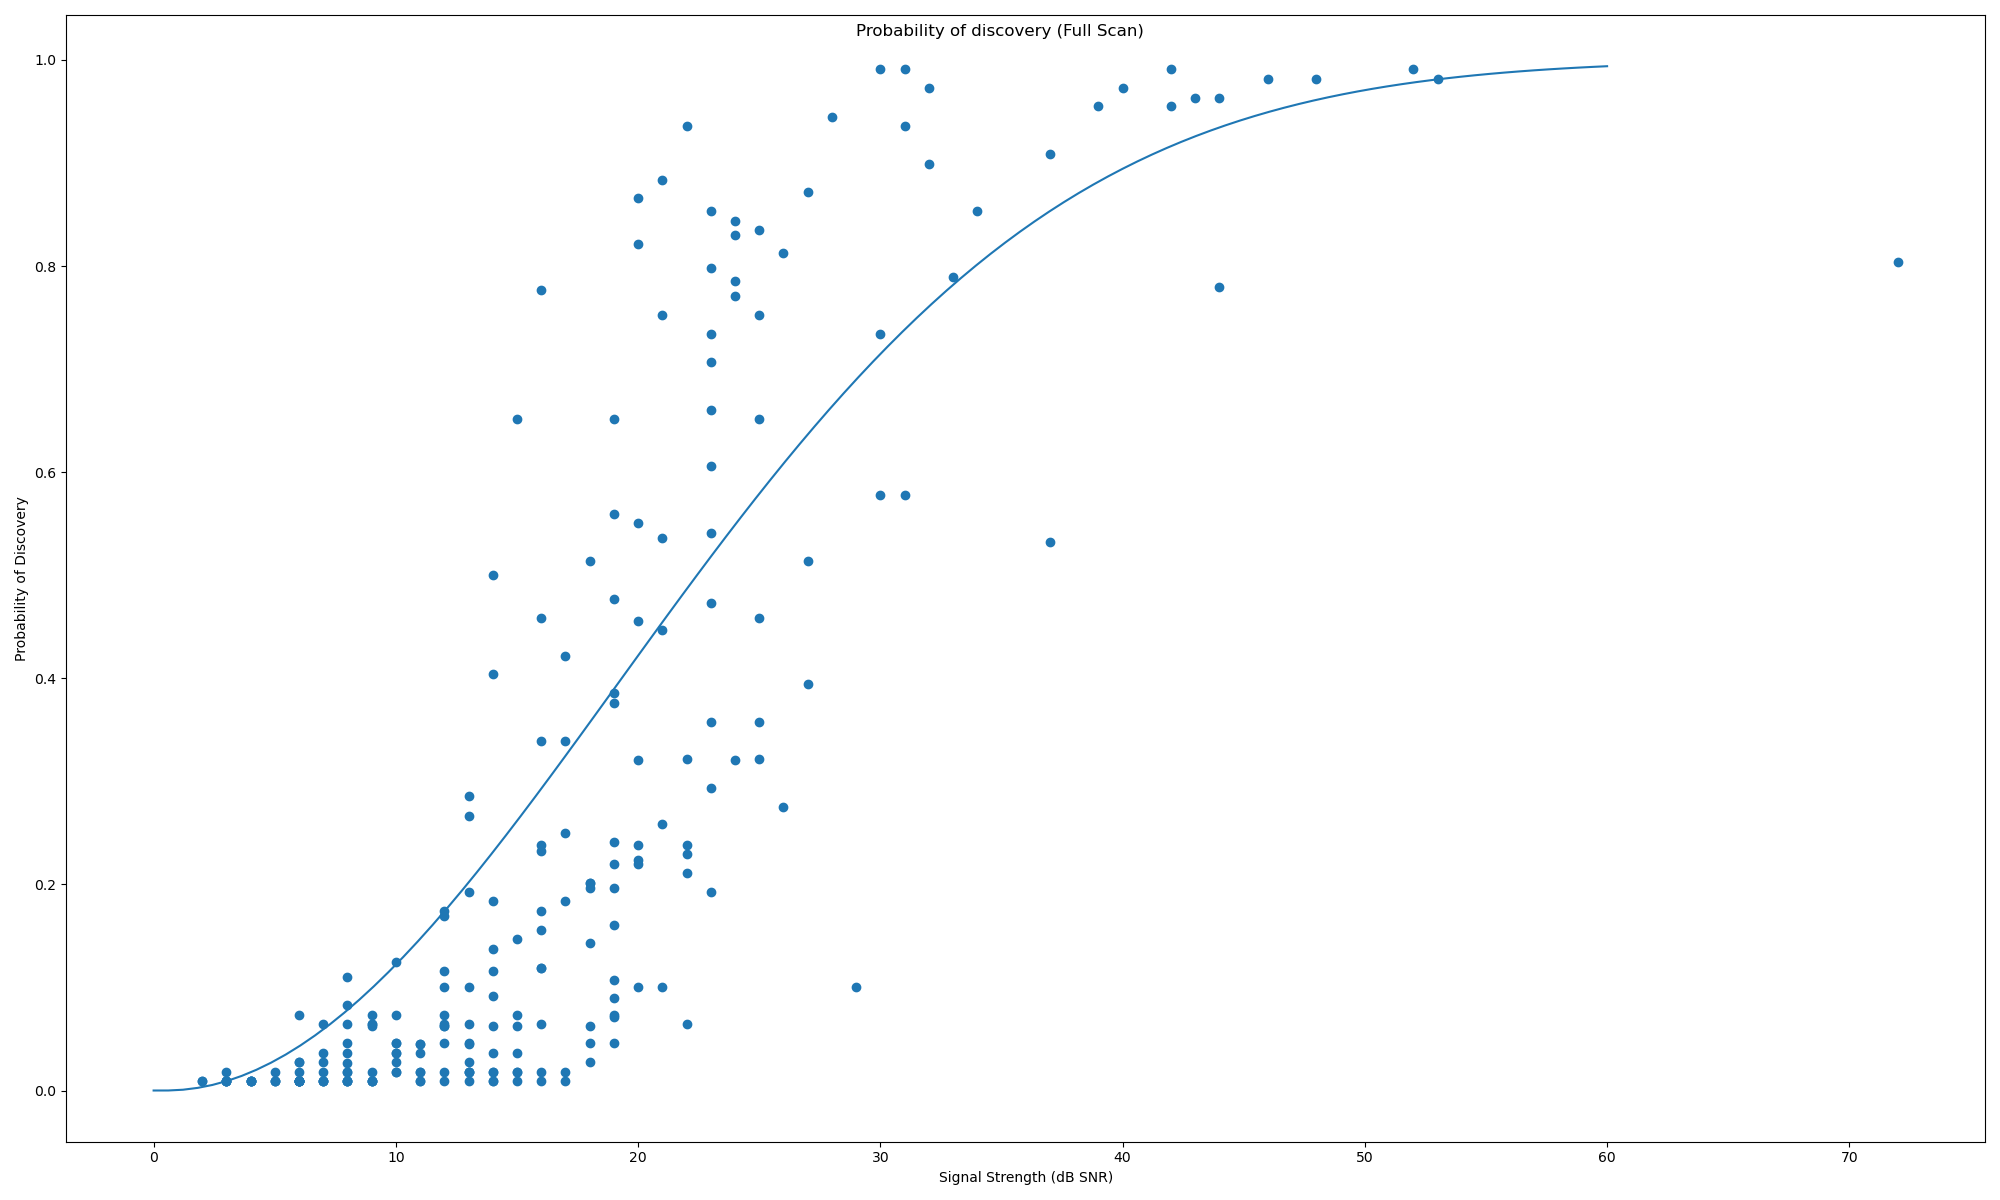
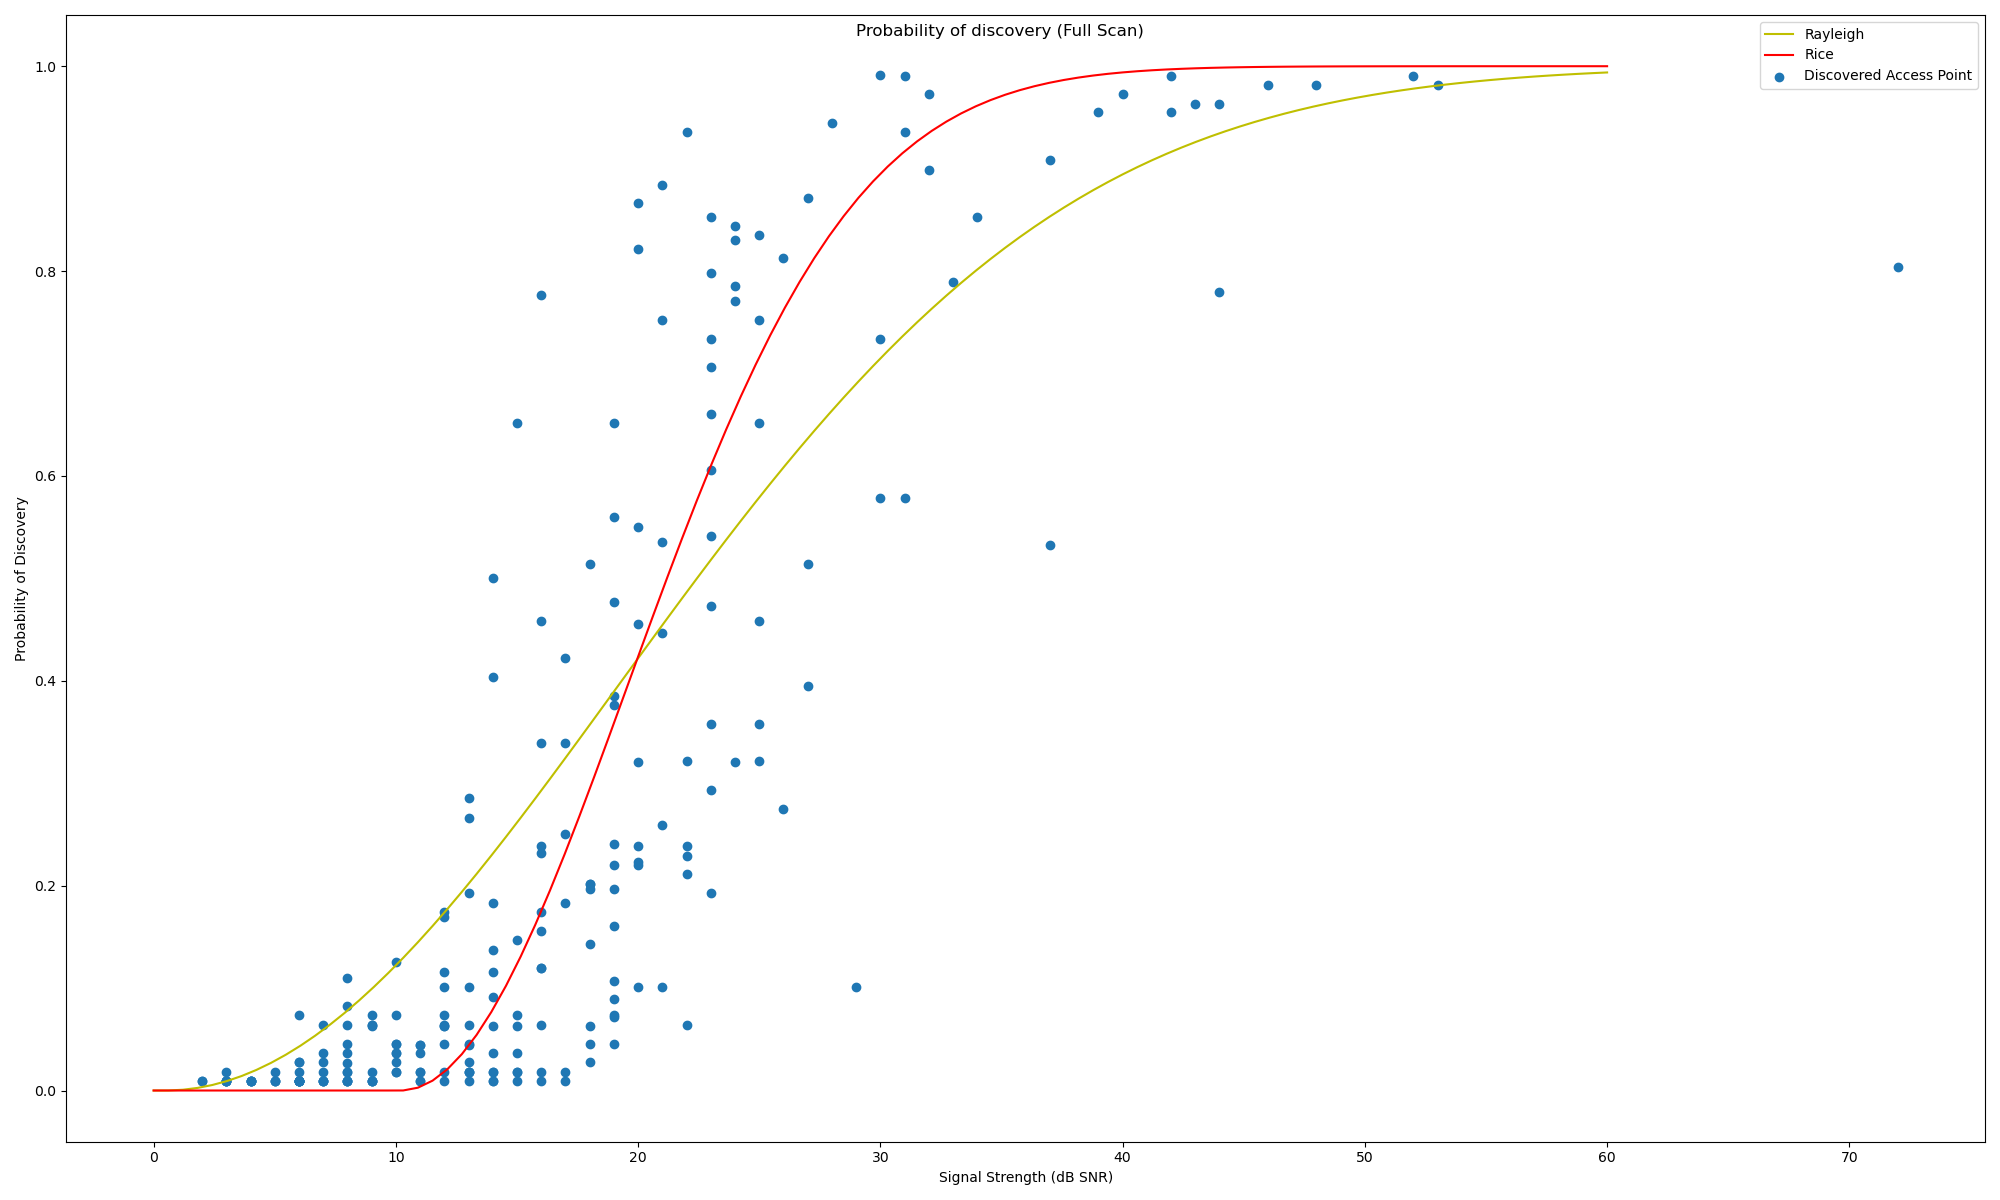
fix(graphing): Add rice fading curve and a legend to detection_probability.py

diff --git a/graphing/detection_probability.py b/graphing/detection_probability.py
@@ -95,6 +95,7 @@ def detection_probability(
     plt.scatter(
         x=ap_probabilities["Signal Strength (dB)"],
         y=ap_probabilities["Probability of Discovery"],
+        label="Discovered Access Point"
     )
 
     plt.xlabel("Signal Strength (dB SNR)")
@@ -104,10 +105,25 @@ def detection_probability(
 
     plt.plot(
         numpy.linspace(0, 60, 100),
-        stats.rayleigh.cdf(x, loc=0.48, scale=0.8)
+        stats.rayleigh.cdf(x, loc=0.48, scale=0.8),
+        "y",
+        label="Rayleigh",
+    )
+
+    bessel = 0.1
+    x = numpy.linspace(
+        stats.rice.ppf(0.1, b=bessel), stats.rice.ppf(0.99, b=bessel), 100
+    )
+
+    plt.plot(
+        numpy.linspace(0, 60, 100),
+        stats.rice.cdf(x, loc=0.9, b=bessel, scale=0.4),
+        "r",
+        label="Rice"
     )
 
     plt.suptitle(
         f"Probability of discovery ({title})"
     )
+    plt.legend()
     plt.show()
